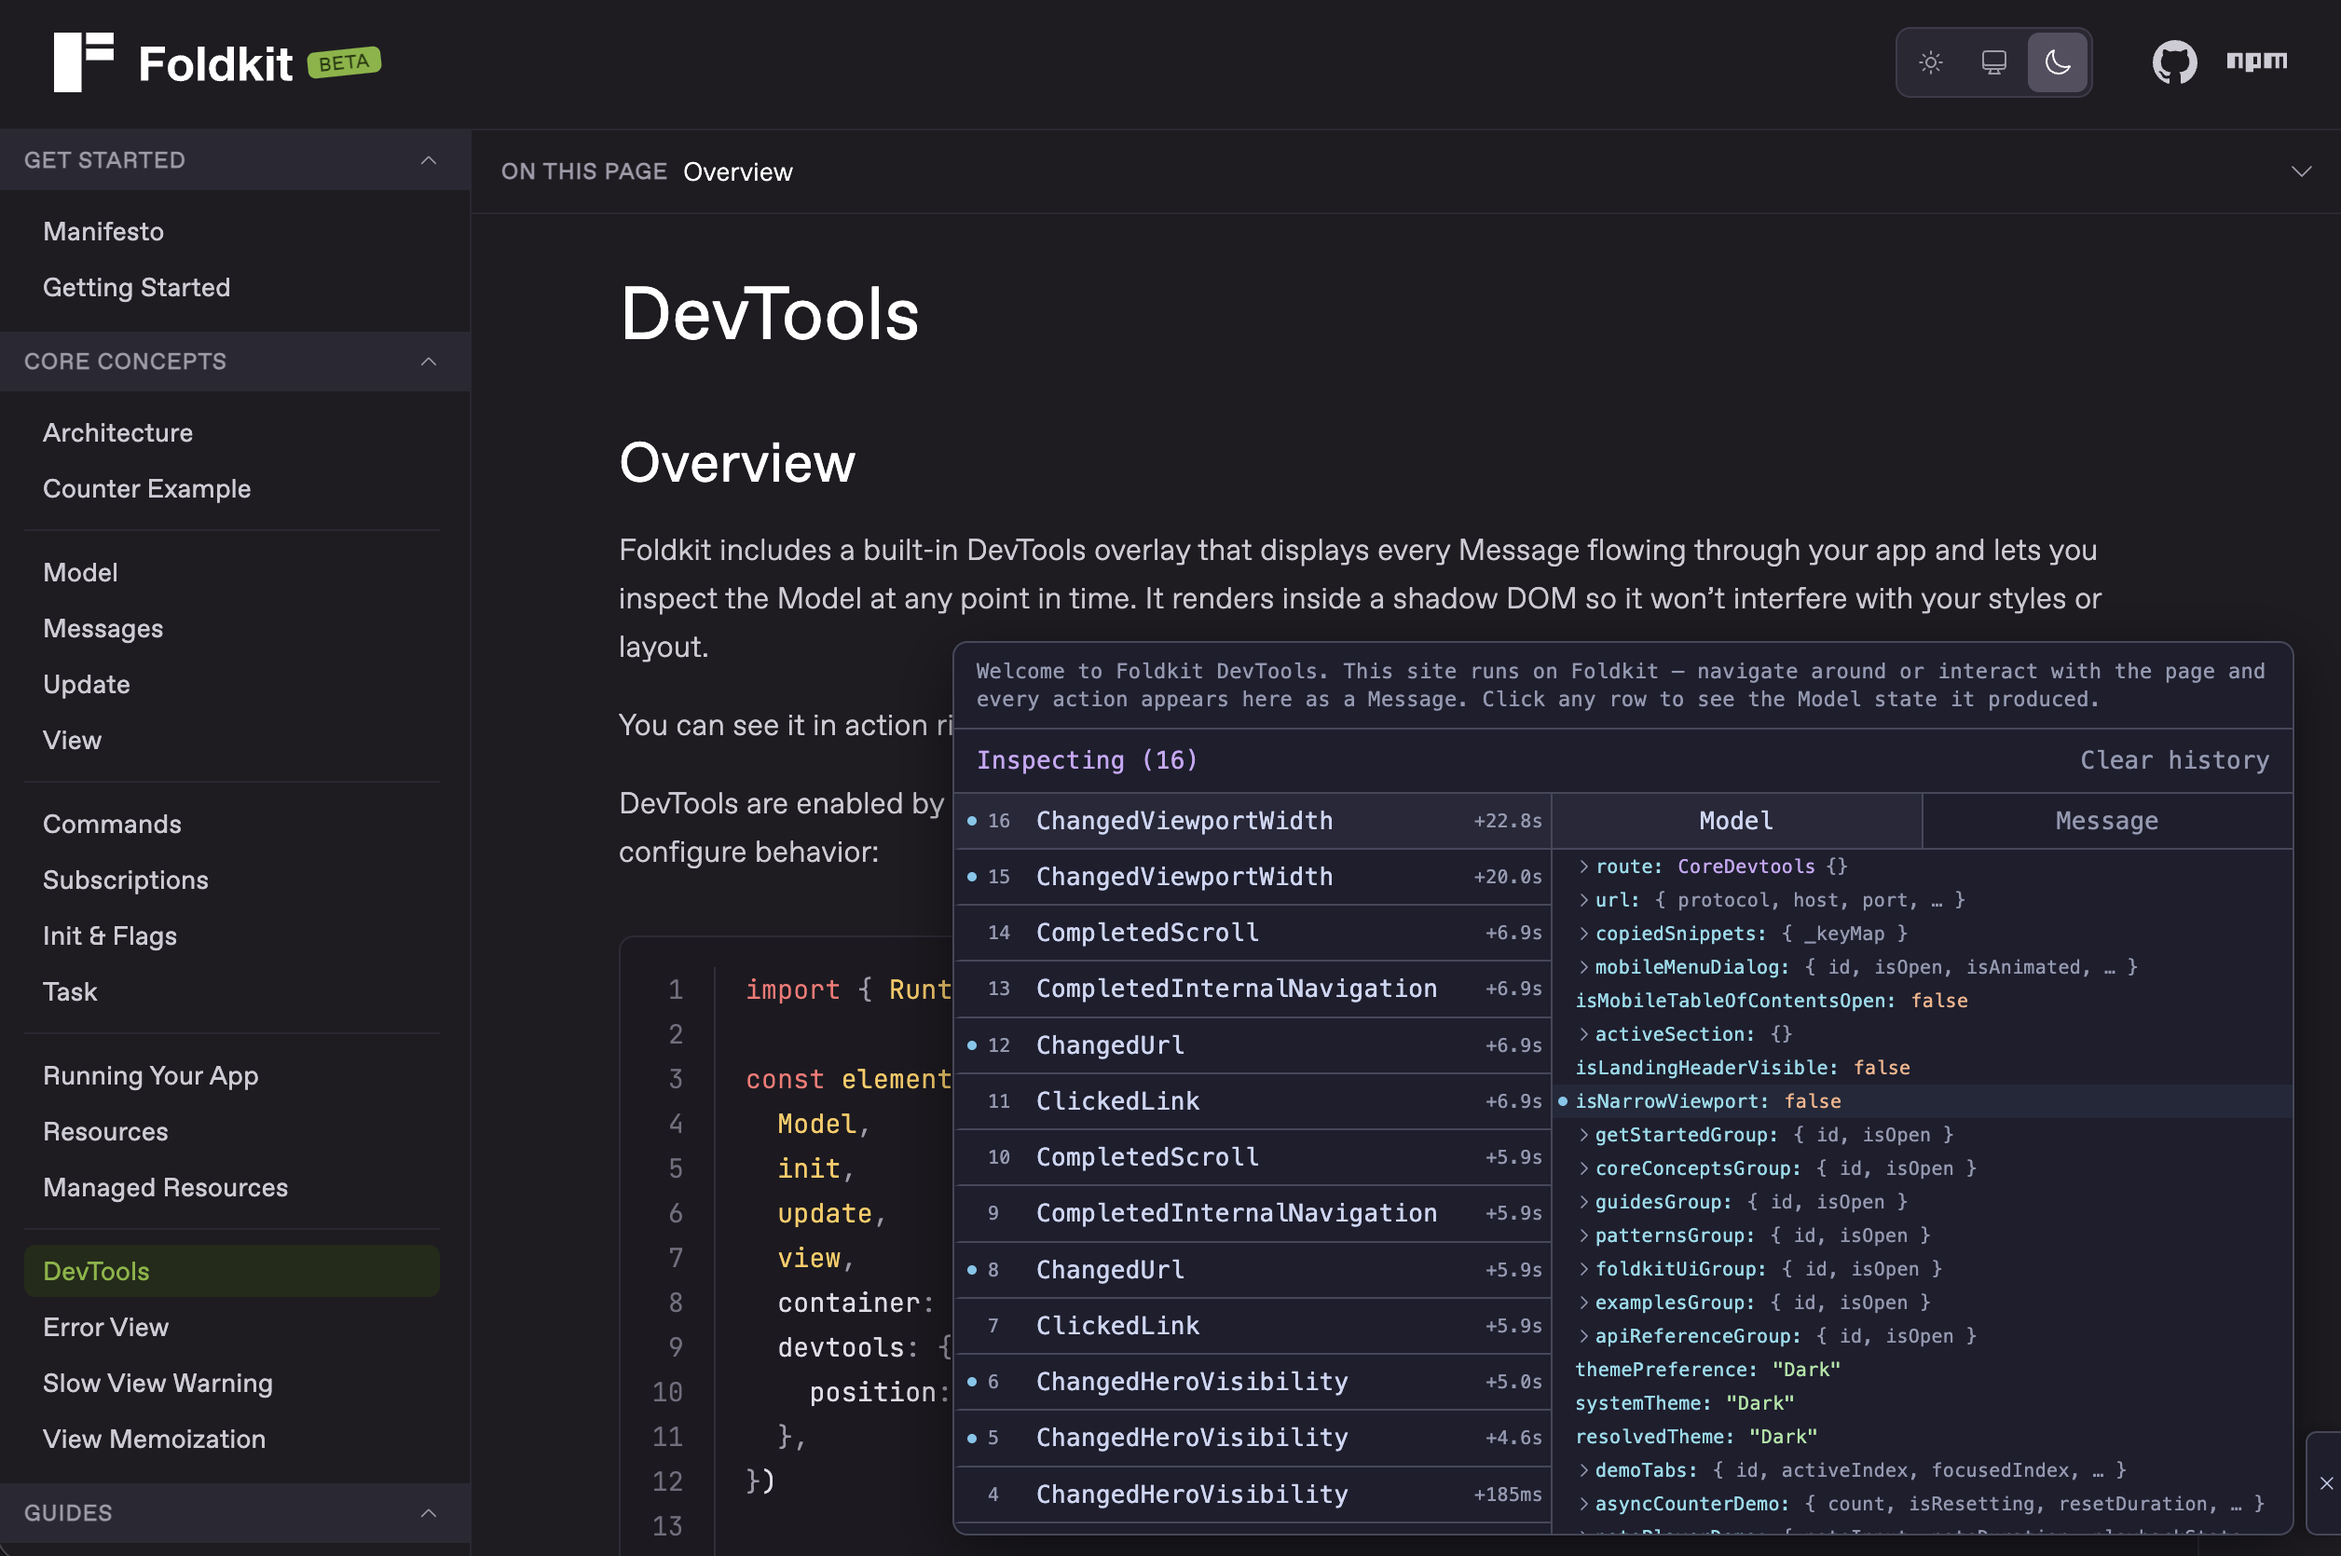
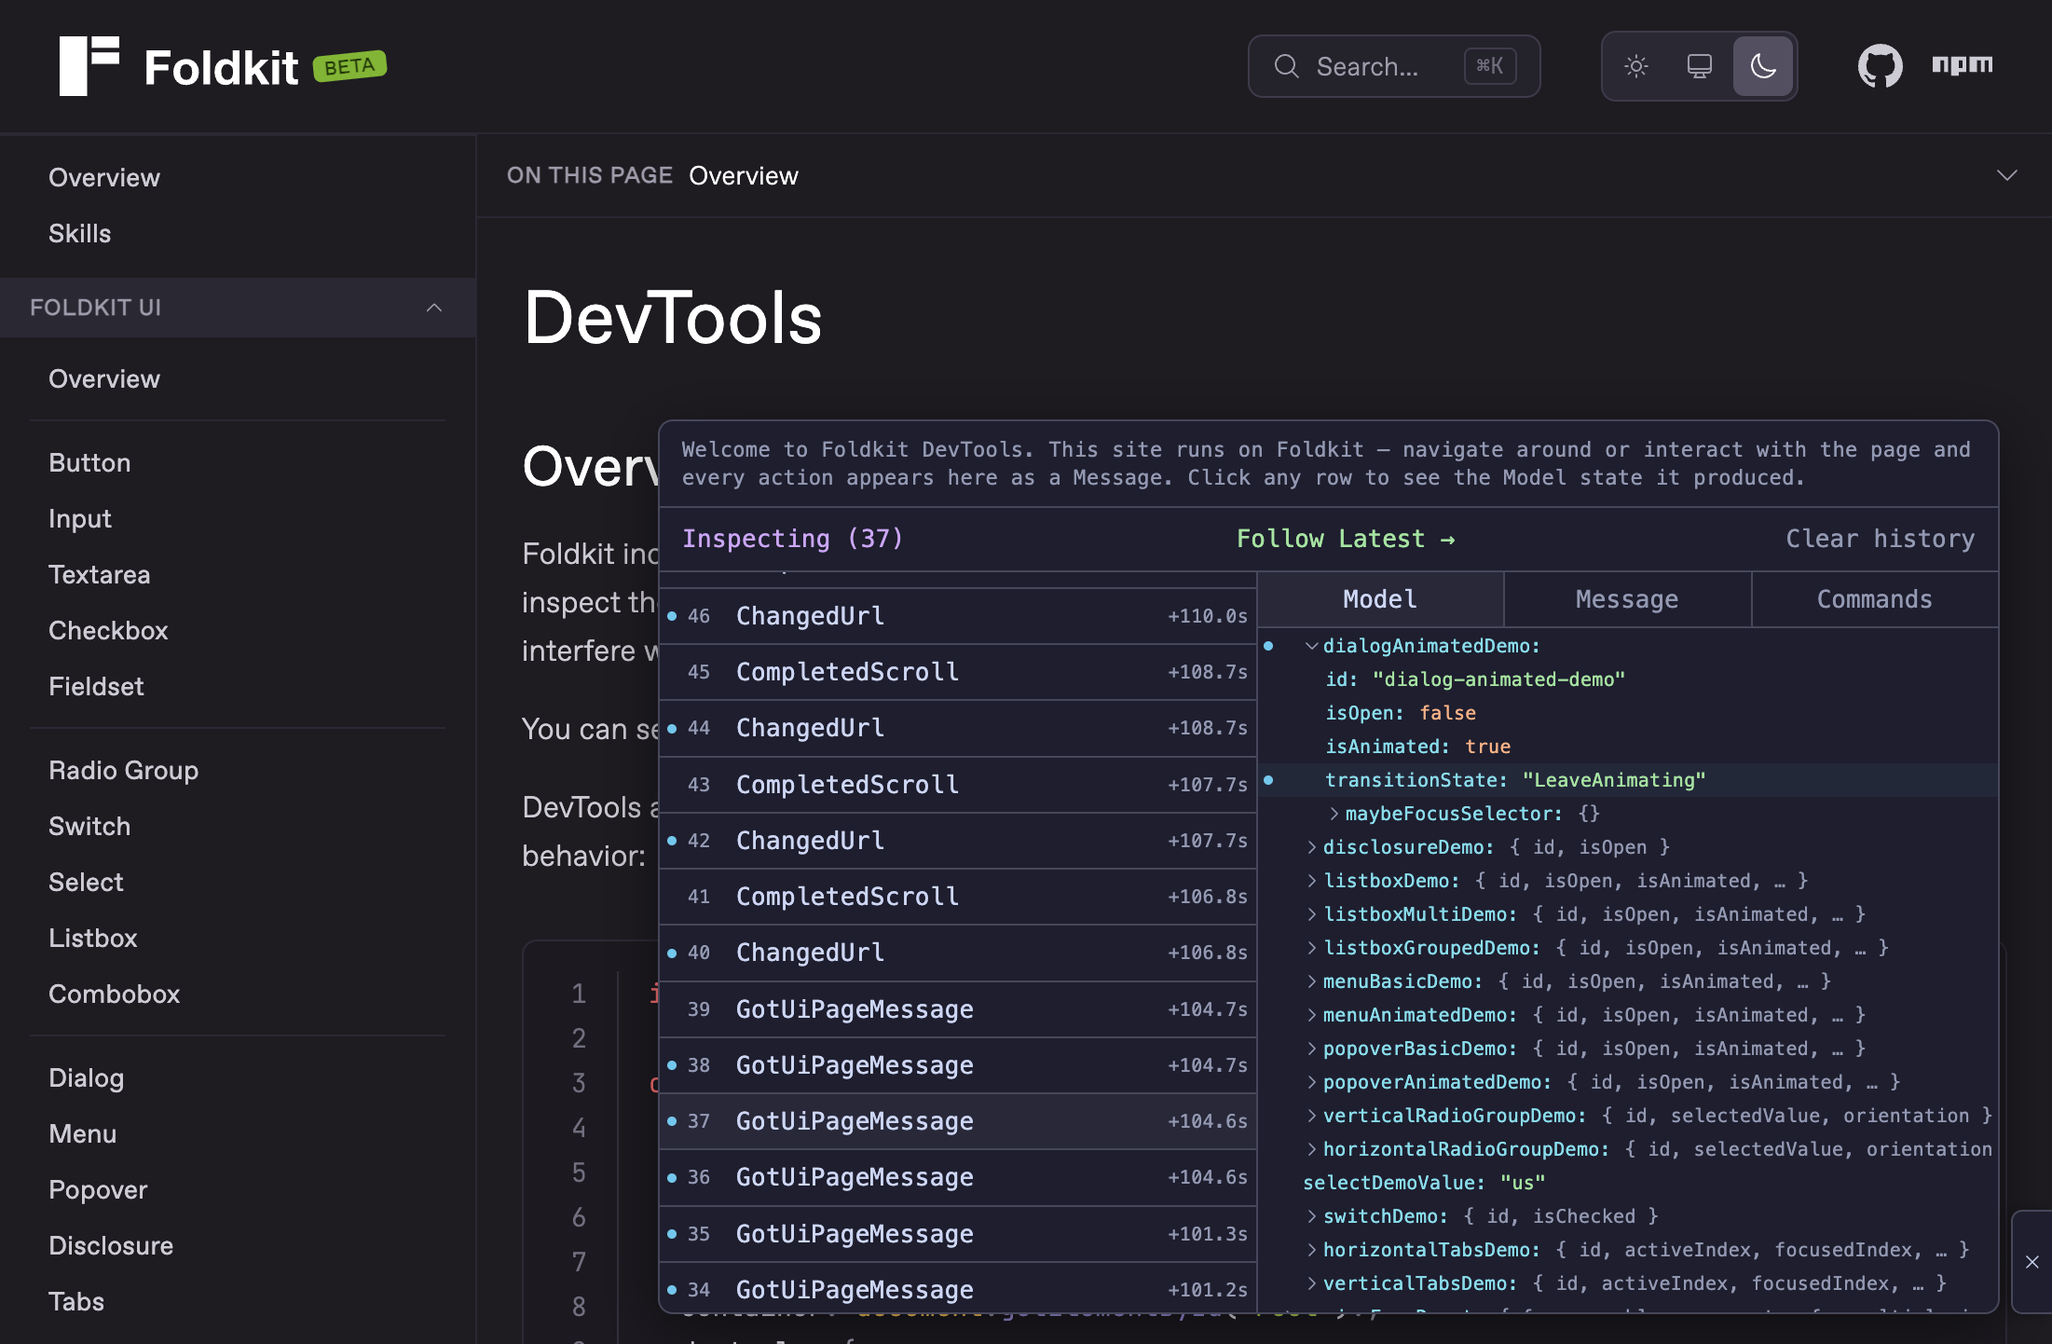
feat(devtools): add Commands tab to inspector
Add a third inspector tab that displays Command definition names
returned by update for the selected Message. Thread init Command
names through the store so they appear when inspecting the init entry.

Update DevTools screenshot and docs to reflect the new tab.

diff --git a/packages/foldkit/src/devtools/overlay.ts b/packages/foldkit/src/devtools/overlay.ts
@@ -50,6 +50,7 @@ const Model = S.Struct({
   isOpen: S.Boolean,
   isMobile: S.Boolean,
   entries: S.Array(DisplayEntry),
+  initCommandNames: S.Array(S.String),
   startIndex: S.Number,
   isPaused: S.Boolean,
   pausedAtIndex: S.Number,
@@ -67,6 +68,7 @@ type Model = typeof Model.Type
 const Flags = S.Struct({
   isMobile: S.Boolean,
   entries: S.Array(DisplayEntry),
+  initCommandNames: S.Array(S.String),
   startIndex: S.Number,
   isPaused: S.Boolean,
   pausedAtIndex: S.Number,
@@ -100,6 +102,7 @@ const GotInspectorTabsMessage = m('GotInspectorTabsMessage', {
 })
 const ReceivedStoreUpdate = m('ReceivedStoreUpdate', {
   entries: S.Array(DisplayEntry),
+  initCommandNames: S.Array(S.String),
   startIndex: S.Number,
   isPaused: S.Boolean,
   pausedAtIndex: S.Number,
@@ -152,6 +155,7 @@ const toDisplayEntries = ({ entries }: StoreState) =>
 
 const toDisplayState = (state: StoreState) => ({
   entries: toDisplayEntries(state),
+  initCommandNames: state.initCommandNames,
   startIndex: state.startIndex,
   isPaused: state.isPaused,
   pausedAtIndex: state.pausedAtIndex,
@@ -496,6 +500,7 @@ const makeUpdate = (
         ],
         ReceivedStoreUpdate: ({
           entries,
+          initCommandNames,
           startIndex,
           isPaused,
           pausedAtIndex,
@@ -514,6 +519,7 @@ const makeUpdate = (
           return [
             evo(model, {
               entries: () => entries,
+              initCommandNames: () => initCommandNames,
               startIndex: () => startIndex,
               isPaused: () => isPaused,
               pausedAtIndex: () => pausedAtIndex,
@@ -939,8 +945,12 @@ const makeView = (
     ['Click a message to inspect'],
   )
 
-  type InspectorTab = 'Model' | 'Message'
-  const INSPECTOR_TABS: ReadonlyArray<InspectorTab> = ['Model', 'Message']
+  type InspectorTab = 'Model' | 'Message' | 'Commands'
+  const INSPECTOR_TABS: ReadonlyArray<InspectorTab> = [
+    'Model',
+    'Message',
+    'Commands',
+  ]
 
   const noMessageView: Html = div(
     [
@@ -995,6 +1005,60 @@ const makeView = (
         ),
     })
 
+  const selectedCommandNames = (model: Model): ReadonlyArray<string> => {
+    const selectedIndex = M.value(mode).pipe(
+      M.when('TimeTravel', () =>
+        model.isPaused ? model.pausedAtIndex : INIT_INDEX,
+      ),
+      M.when('Inspect', () => model.selectedIndex),
+      M.exhaustive,
+    )
+
+    if (selectedIndex === INIT_INDEX) {
+      return model.initCommandNames
+    }
+
+    return pipe(
+      Array_.get(model.entries, selectedIndex - model.startIndex),
+      Option.map(entry => entry.commandNames),
+      Option.getOrElse(() => []),
+    )
+  }
+
+  const commandsTabContent = (model: Model): Html =>
+    Array_.match(selectedCommandNames(model), {
+      onEmpty: () =>
+        div(
+          [
+            Class(
+              'flex-1 flex items-center justify-center text-dt-muted text-2xs font-mono min-w-0',
+            ),
+          ],
+          ['No Commands returned'],
+        ),
+      onNonEmpty: names =>
+        div(
+          [
+            Class(
+              'flex flex-col flex-1 min-h-0 min-w-0 overflow-auto overscroll-none',
+            ),
+          ],
+          Array_.map(names, (name, index) =>
+            div(
+              [
+                Class(
+                  'flex items-center px-2 py-1 text-base font-mono text-dt border-b gap-1.5',
+                ),
+              ],
+              [
+                span([Class(indexClass)], [String(index + 1)]),
+                span([Class('json-tag')], [name]),
+              ],
+            ),
+          ),
+        ),
+    })
+
   const inspectorTabContent = (
     model: Model,
     tab: InspectorTab,
@@ -1003,6 +1067,7 @@ const makeView = (
     M.value(tab).pipe(
       M.when('Model', () => modelTabContent(model, inspectedModel)),
       M.when('Message', () => messageTabContent(model)),
+      M.when('Commands', () => commandsTabContent(model)),
       M.exhaustive,
     )
 

diff --git a/packages/foldkit/src/devtools/store.ts b/packages/foldkit/src/devtools/store.ts
@@ -16,6 +16,7 @@ export type StoreState = Readonly<{
   entries: ReadonlyArray<HistoryEntry>
   keyframes: HashMap.HashMap<number, unknown>
   maybeInitModel: Option.Option<unknown>
+  initCommandNames: ReadonlyArray<string>
   startIndex: number
   isPaused: boolean
   pausedAtIndex: number
@@ -31,6 +32,7 @@ const emptyState: StoreState = {
   entries: [],
   keyframes: HashMap.empty(),
   maybeInitModel: Option.none(),
+  initCommandNames: [],
   startIndex: 0,
   isPaused: false,
   pausedAtIndex: 0,
@@ -92,10 +94,11 @@ export const createDevtoolsStore = (
       }
     }
 
-    const recordInit = (model: unknown) =>
+    const recordInit = (model: unknown, commandNames: ReadonlyArray<string>) =>
       SubscriptionRef.update(stateRef, state => ({
         ...state,
         maybeInitModel: Option.some(model),
+        initCommandNames: commandNames,
         keyframes: HashMap.set(state.keyframes, 0, model),
       }))
 
@@ -177,6 +180,7 @@ export const createDevtoolsStore = (
     const clear = SubscriptionRef.update(stateRef, state => ({
       ...emptyState,
       maybeInitModel: state.maybeInitModel,
+      initCommandNames: state.initCommandNames,
       keyframes: Option.match(state.maybeInitModel, {
         onNone: () => HashMap.empty(),
         onSome: model =>
@@ -197,7 +201,10 @@ export const createDevtoolsStore = (
   })
 
 export type DevtoolsStore = Readonly<{
-  recordInit: (model: unknown) => Effect.Effect<void>
+  recordInit: (
+    model: unknown,
+    commandNames: ReadonlyArray<string>,
+  ) => Effect.Effect<void>
   recordMessage: (
     message: Readonly<{ _tag: string }>,
     modelAfterUpdate: unknown,

diff --git a/packages/website/src/page/core/devtools.ts b/packages/website/src/page/core/devtools.ts
@@ -63,7 +63,7 @@ export const view = (copiedSnippets: CopiedSnippets): Html =>
       pageTitle('core/devtools', 'DevTools'),
       tableOfContentsEntryToHeader(overviewHeader),
       para(
-        'Foldkit includes a built-in DevTools overlay that displays every Message flowing through your app and lets you inspect the Model at any point in time. It renders inside a shadow DOM so it won\u2019t interfere with your styles or layout.',
+        'Foldkit includes a built-in DevTools overlay that displays every Message flowing through your app and lets you inspect the Model, Message, and Commands at any point in time. It renders inside a shadow DOM so it won\u2019t interfere with your styles or layout.',
       ),
       para(
         'You can see it in action right now \u2014 look for the tab on the bottom right edge of this page.',

diff --git a/packages/foldkit/src/runtime/runtime.ts b/packages/foldkit/src/runtime/runtime.ts
@@ -753,7 +753,10 @@ const makeRuntime = <
             getCurrentModel: Ref.get(modelRef),
           })
           yield* Ref.set(maybeDevtoolsStoreRef, Option.some(devtoolsStore))
-          yield* devtoolsStore.recordInit(initModel)
+          yield* devtoolsStore.recordInit(
+            initModel,
+            Array.map(initCommands, ({ name }) => name),
+          )
           yield* createOverlay(devtoolsStore, position, mode, maybeBanner)
         }
 

diff --git a/README.md b/README.md
@@ -141,7 +141,7 @@ Foldkit is a complete system, not a collection of libraries you stitch together.
 - **UI Components** — Dialog, menu, tabs, listbox, disclosure — fully accessible primitives that are easy to style and customize.
 - **Field Validation** — Per-field validation state modeled as a discriminated union. Define rules as data, apply them in update, and the Model tracks the result.
 - **Virtual DOM** — Declarative Views powered by [Snabbdom](https://github.com/snabbdom/snabbdom). Fast, keyed diffing. Views are plain functions of your Model.
-- **DevTools** — Built-in overlay for inspecting Messages and Model state. Time-travel mode lets you jump to any point in your app's history.
+- **DevTools** — Built-in overlay for inspecting Messages, Model state, and Commands. Time-travel mode lets you jump to any point in your app's history.
 - **Testing** — Simulate the update loop in tests. Send Messages, resolve Commands inline, and assert on the Model. No mocking libraries, no fake timers, no setup or teardown.
 - **HMR** — Vite plugin with state-preserving hot module replacement. Change your view, keep your state.
 

diff --git a/packages/foldkit/README.md b/packages/foldkit/README.md
@@ -143,7 +143,7 @@ Foldkit is a complete system, not a collection of libraries you stitch together.
 - **UI Components** — Dialog, menu, tabs, listbox, disclosure — fully accessible primitives that are easy to style and customize.
 - **Field Validation** — Per-field validation state modeled as a discriminated union. Define rules as data, apply them in update, and the Model tracks the result.
 - **Virtual DOM** — Declarative Views powered by [Snabbdom](https://github.com/snabbdom/snabbdom). Fast, keyed diffing. Views are plain functions of your Model.
-- **DevTools** — Built-in overlay for inspecting Messages and Model state. Time-travel mode lets you jump to any point in your app's history.
+- **DevTools** — Built-in overlay for inspecting Messages, Model state, and Commands. Time-travel mode lets you jump to any point in your app's history.
 - **Testing** — Simulate the update loop in tests. Send Messages, resolve Commands inline, and assert on the Model. No mocking libraries, no fake timers, no setup or teardown.
 - **HMR** — Vite plugin with state-preserving hot module replacement. Change your view, keep your state.
 

diff --git a/.changeset/devtools-commands-tab.md b/.changeset/devtools-commands-tab.md
@@ -1,0 +1,5 @@
+---
+'foldkit': minor
+---
+
+Add Commands tab to DevTools inspector. The third tab shows Command definition names returned by update for the selected Message. Init Command names are now recorded and displayed when inspecting the init entry.
